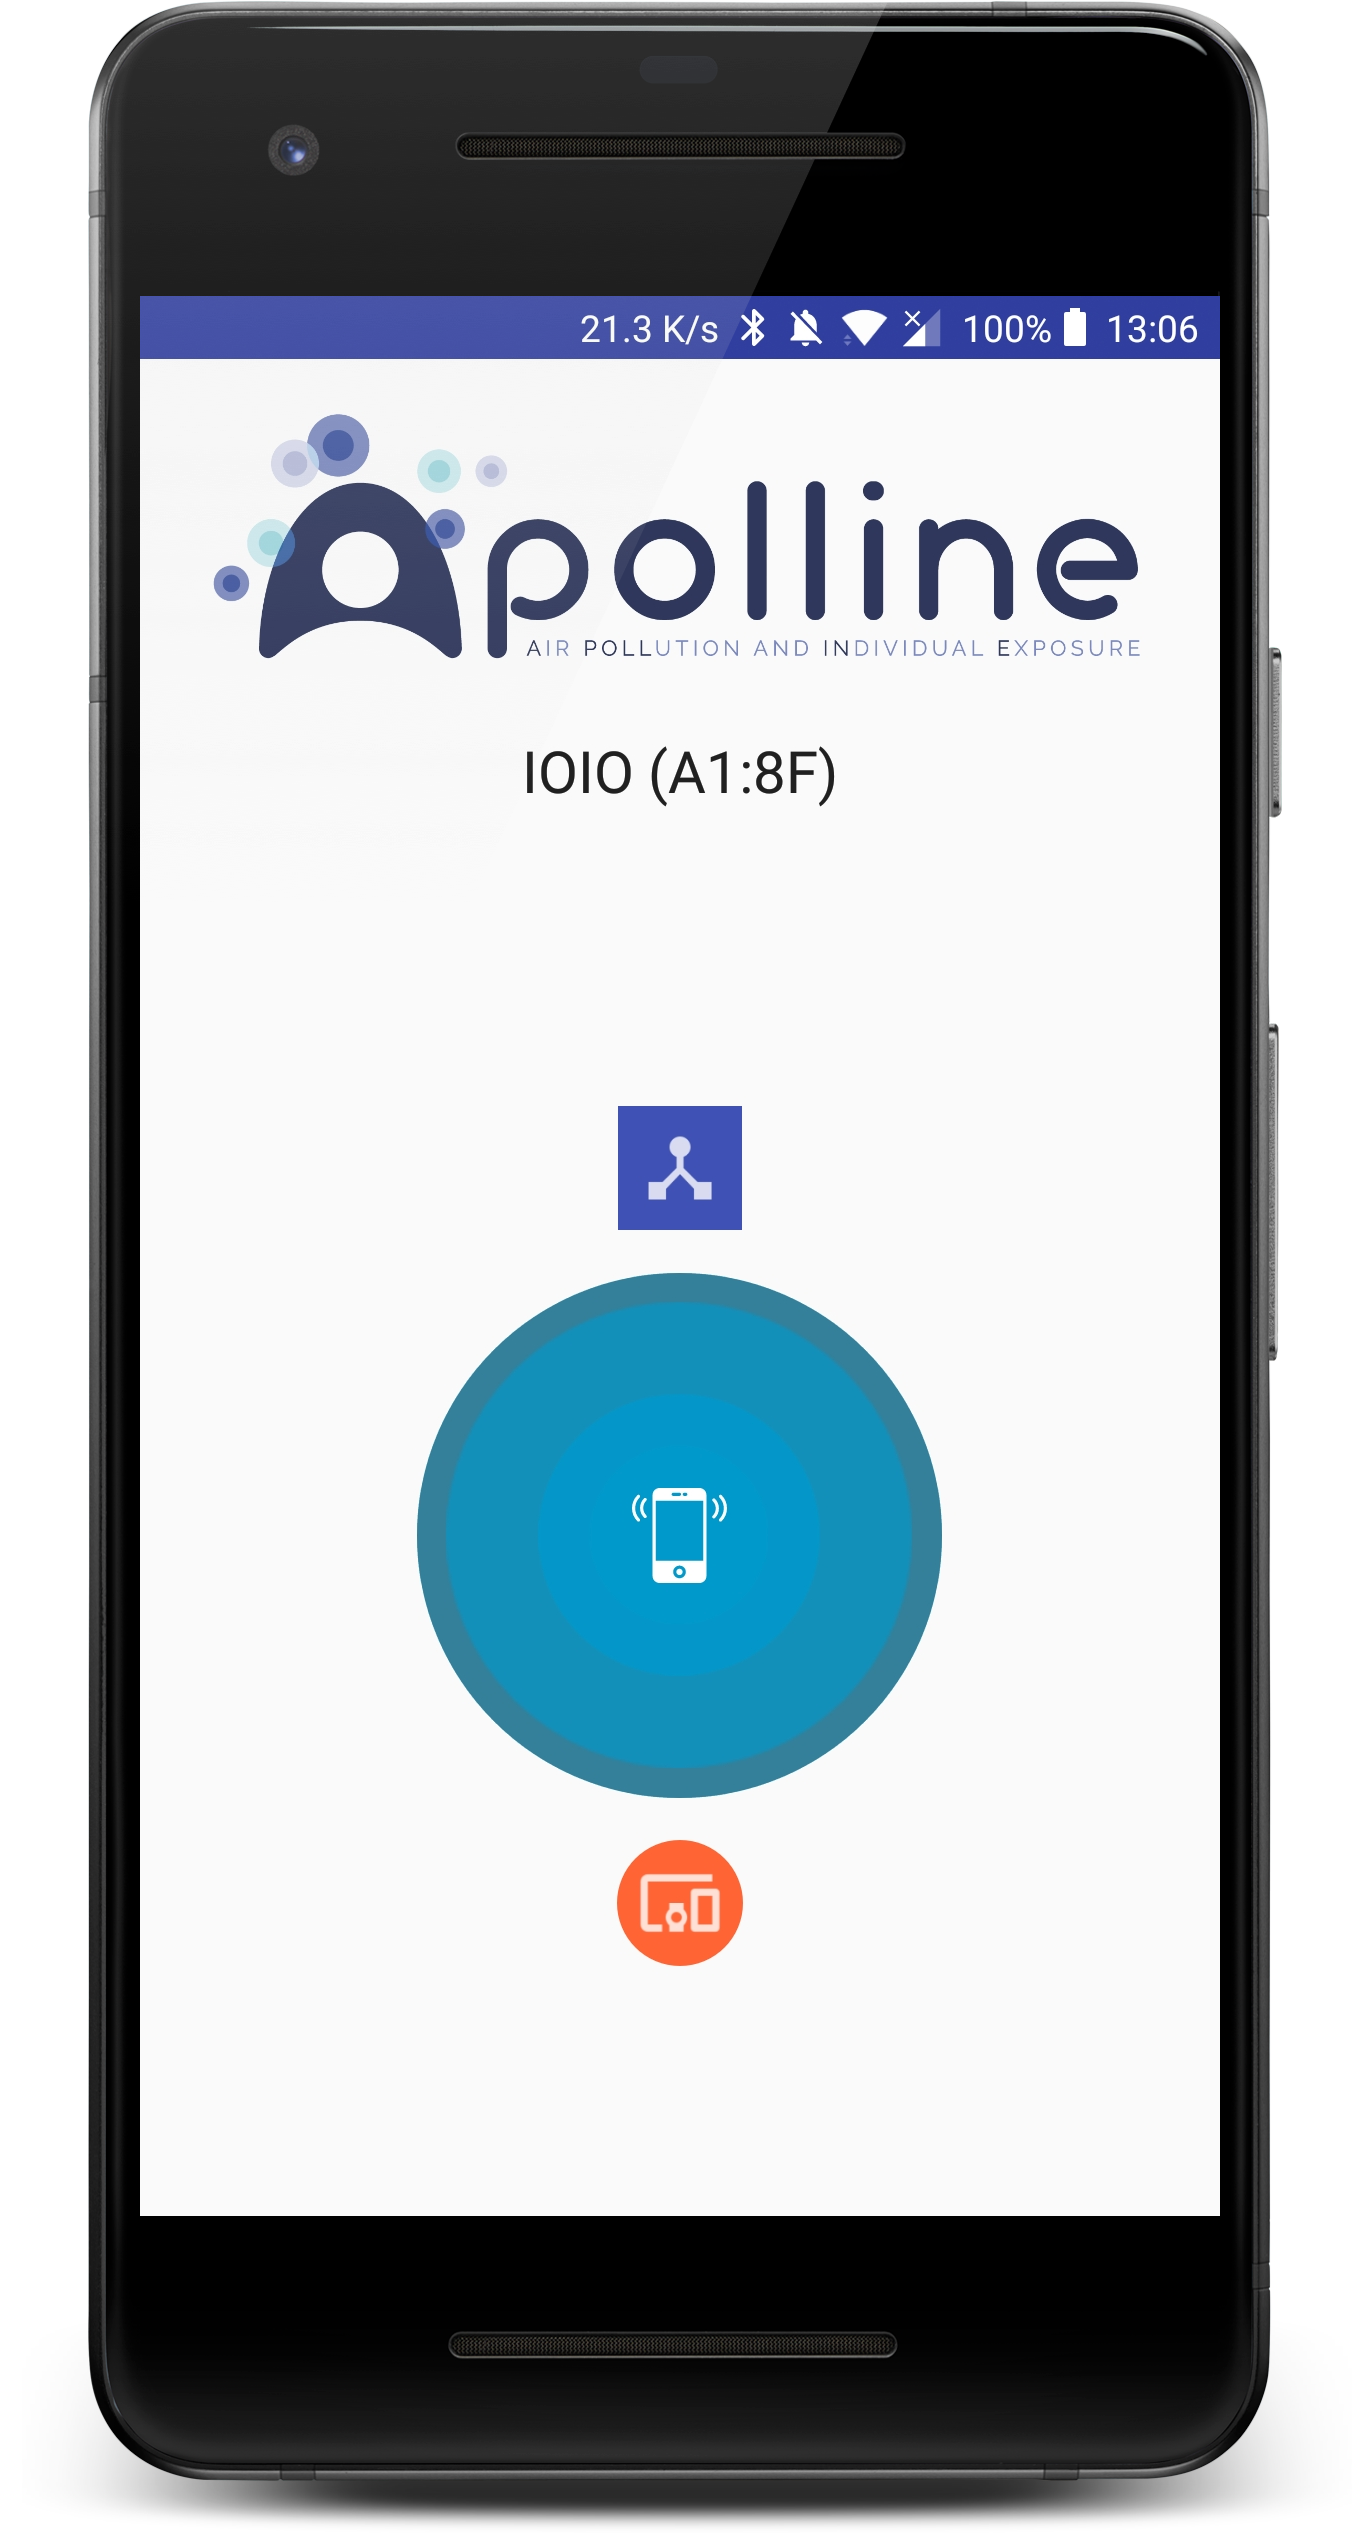
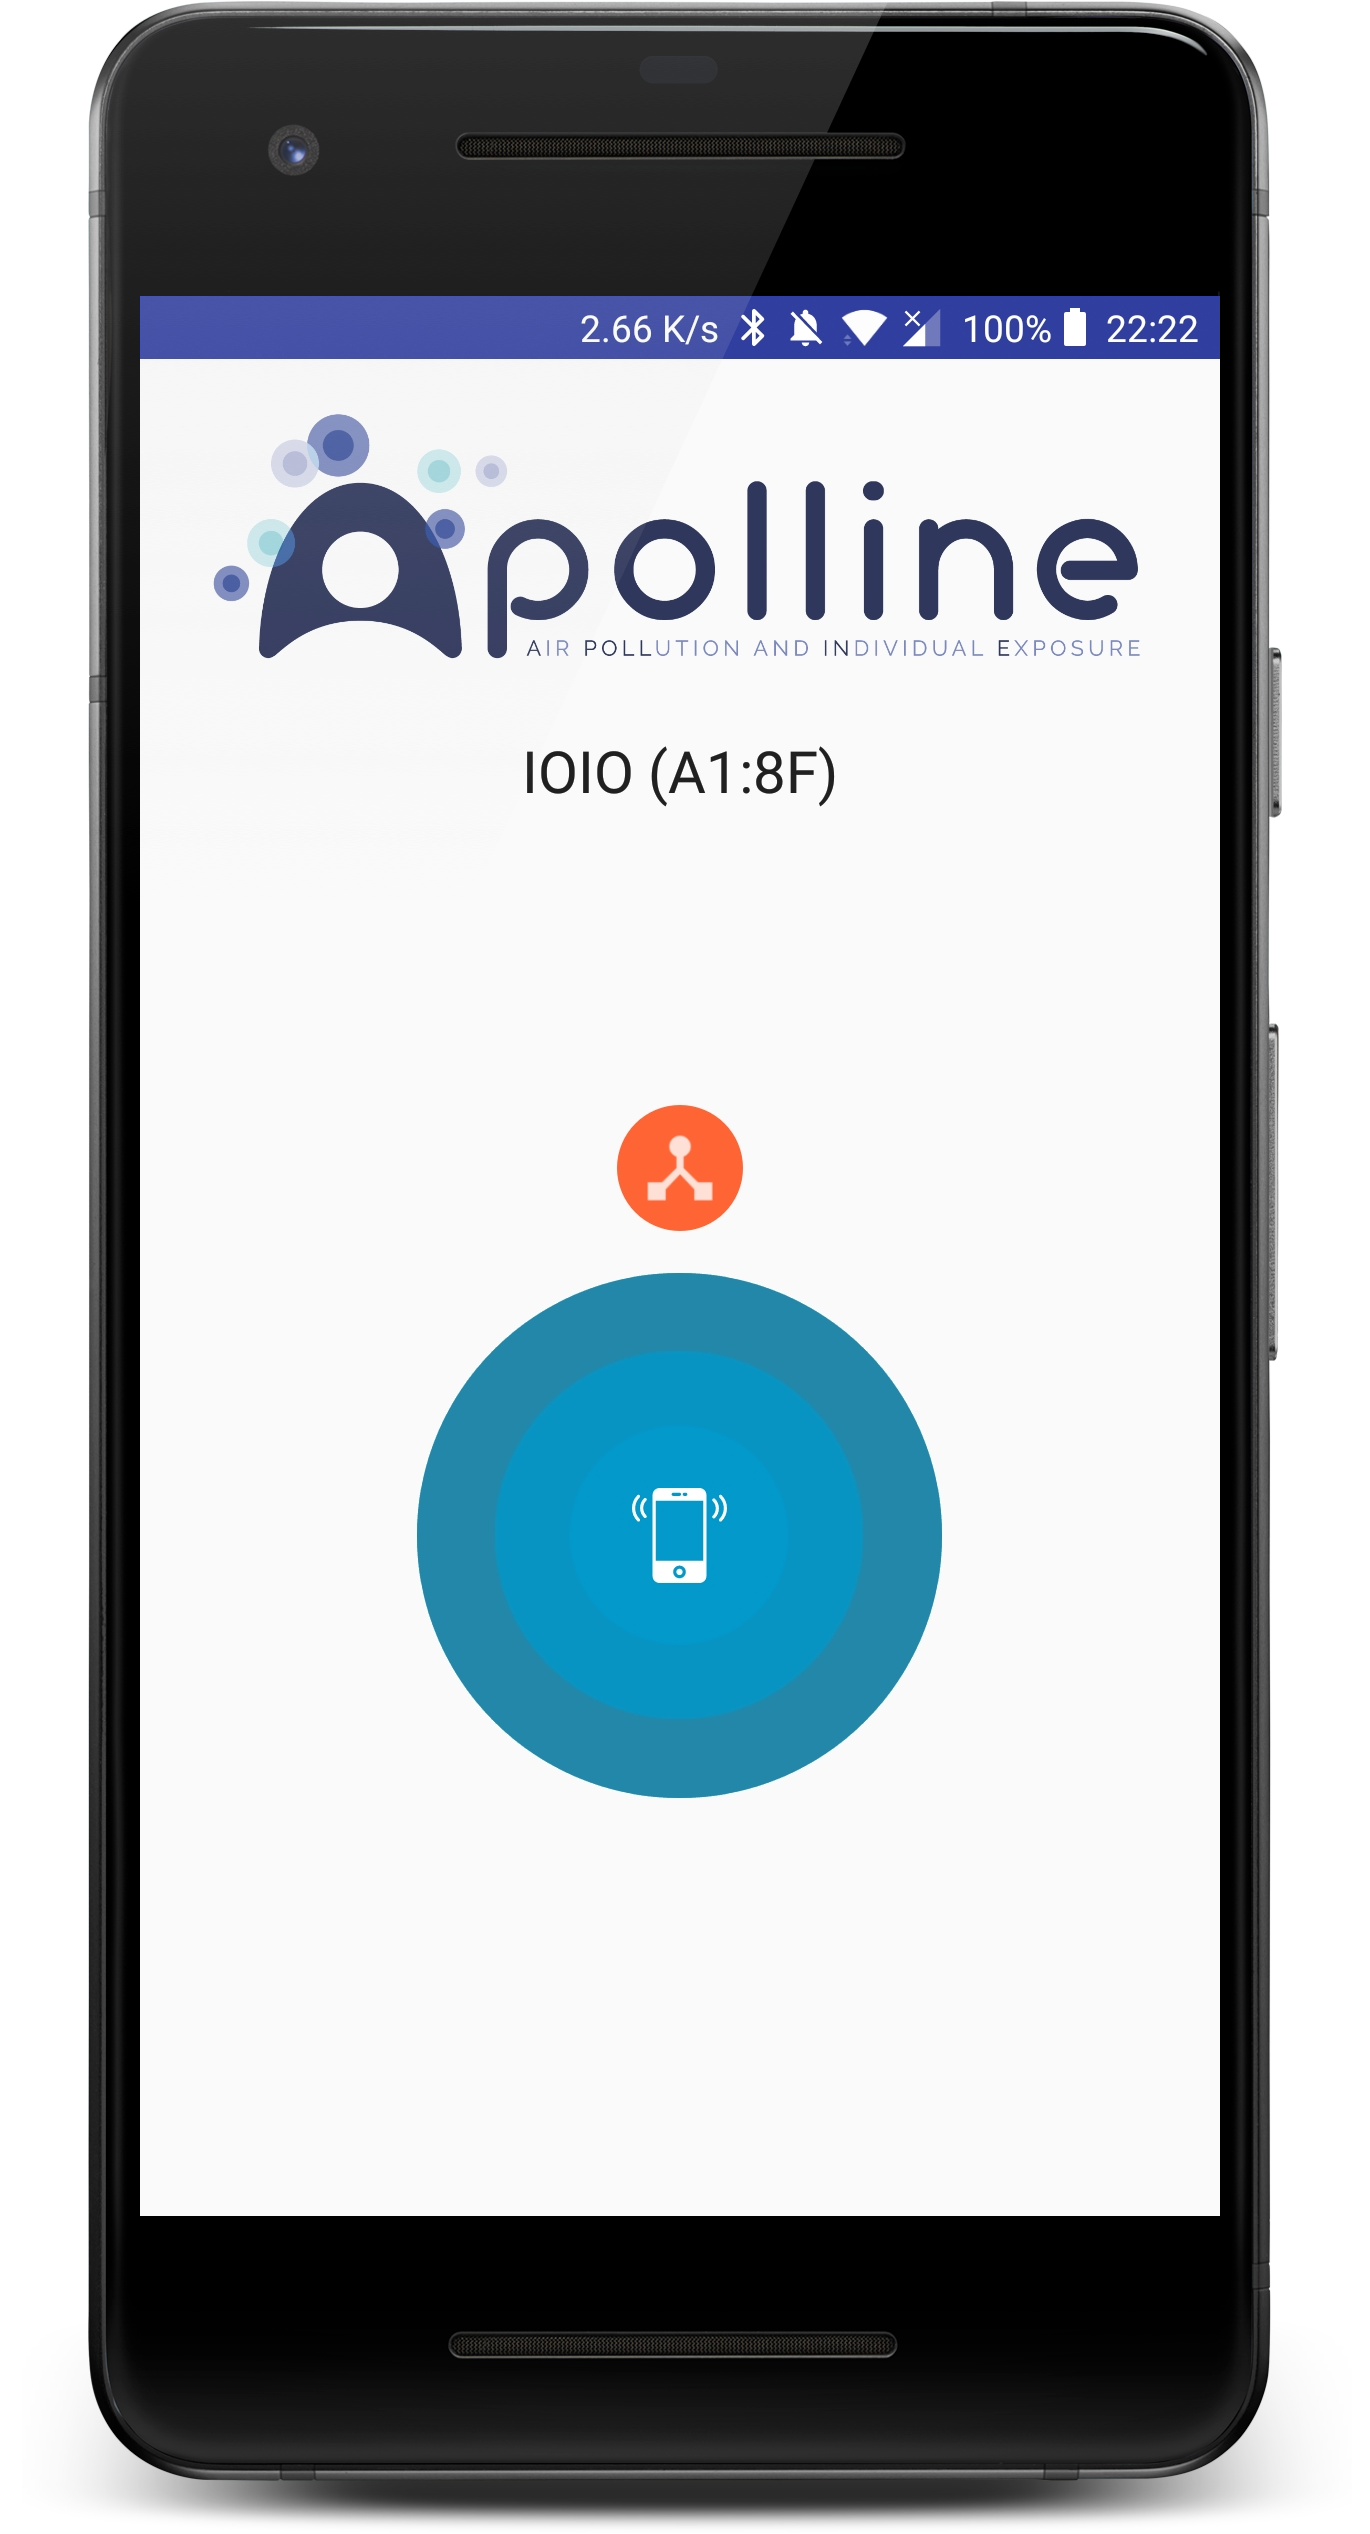
refactor: Display only compatible Bluetooth devices
close #67

diff --git a/app/src/main/java/science/apolline/view/activity/SplashScreen.kt b/app/src/main/java/science/apolline/view/activity/SplashScreen.kt
@@ -149,6 +149,34 @@ class SplashScreen : RootActivity(), AnkoLogger {
                     }
                 })
 
+        mDisposable.add(mRxBluetoothClient.observeBondState()
+                .observeOn(AndroidSchedulers.mainThread())
+                .subscribeOn(Schedulers.computation())
+                .subscribe { event ->
+                    when (event.state) {
+                        BluetoothDevice.BOND_NONE -> {
+                            info("device bound state BOND_NONE: " + event.bluetoothDevice.name)
+                        }
+                        BluetoothDevice.BOND_BONDING -> {
+                            info("device bound state BOND_BONDING: " + event.bluetoothDevice.name)
+                        }
+                        BluetoothDevice.BOND_BONDED -> {
+                            info("device bound state BOND_BONDED: " + event.bluetoothDevice.name)
+
+                            if (event.bluetoothDevice.name.toString().toLowerCase().contains(regex = "^ioio.".toRegex())) {
+                                val intent = Intent(this, MainActivity::class.java)
+                                startActivity(intent)
+                                finish()
+                            }
+
+                        }
+                        else -> {
+
+                        }
+
+                    }
+                })
+
     }
 
     override fun onStop() {
@@ -274,6 +302,7 @@ class SplashScreen : RootActivity(), AnkoLogger {
 
         val boundedDevices = mBluetoothAdapter!!.bondedDevices
         var sensorCounter = 0
+        var currentCompatibleSensor: BluetoothDevice? = null
 
         if (boundedDevices.size > 0) {
 
@@ -282,14 +311,24 @@ class SplashScreen : RootActivity(), AnkoLogger {
                 addDeviceToCircleView(device)
 
                 if (device.name.toString().toLowerCase().contains(regex = "^ioio.".toRegex())) {
+                    currentCompatibleSensor = device
                     sensorCounter++
                 }
             }
 
             if (sensorCounter == 1) {
-                val intent = Intent(this, MainActivity::class.java)
-                startActivity(intent)
-                finish()
+
+                mDisposable.add(mRxBluetoothClient.observeConnectDevice(currentCompatibleSensor, currentCompatibleSensor!!.uuids[0].uuid)
+                        .observeOn(AndroidSchedulers.mainThread())
+                        .subscribeOn(Schedulers.computation())
+                        .subscribe { event ->
+                            if (event.isConnected) {
+                                val intent = Intent(this, MainActivity::class.java)
+                                startActivity(intent)
+                                finish()
+                            }
+                        })
+
             } else {
                 info("There is multiple IOIO Paired sensors, please choose one")
             }
@@ -301,20 +340,18 @@ class SplashScreen : RootActivity(), AnkoLogger {
     }
 
     private fun onAddClick(view: View, name: String, drawableId: Int, compatible: Boolean) {
-        val newMenu = CircleImageView(this)
-        val currentDrawable = ContextCompat.getDrawable(this, drawableId)
-        val willBeWhite = currentDrawable!!.constantState.newDrawable()
-        newMenu.setBackgroundResource(R.drawable.circle_menu_shape_item)
-        willBeWhite.mutate().setColorFilter(Color.WHITE, PorterDuff.Mode.SRC_ATOP)
-        newMenu.setPadding(20, 20, 20, 20)
-        newMenu.setImageDrawable(willBeWhite)
-        newMenu.name = name
-
         if (compatible) {
-            newMenu.setBackgroundResource(R.color.colorPrimary)
+            val newMenu = CircleImageView(this)
+            val currentDrawable = ContextCompat.getDrawable(this, drawableId)
+            val willBeWhite = currentDrawable!!.constantState.newDrawable()
+            newMenu.setBackgroundResource(R.drawable.circle_menu_shape_item)
+            willBeWhite.mutate().setColorFilter(Color.WHITE, PorterDuff.Mode.SRC_ATOP)
+            newMenu.setPadding(20, 20, 20, 20)
+            newMenu.setImageDrawable(willBeWhite)
+            newMenu.name = name
+            //newMenu.setBackgroundResource(R.color.colorPrimary)
+            circle_layout.addView(newMenu)
         }
-
-        circle_layout.addView(newMenu)
     }
 
 
